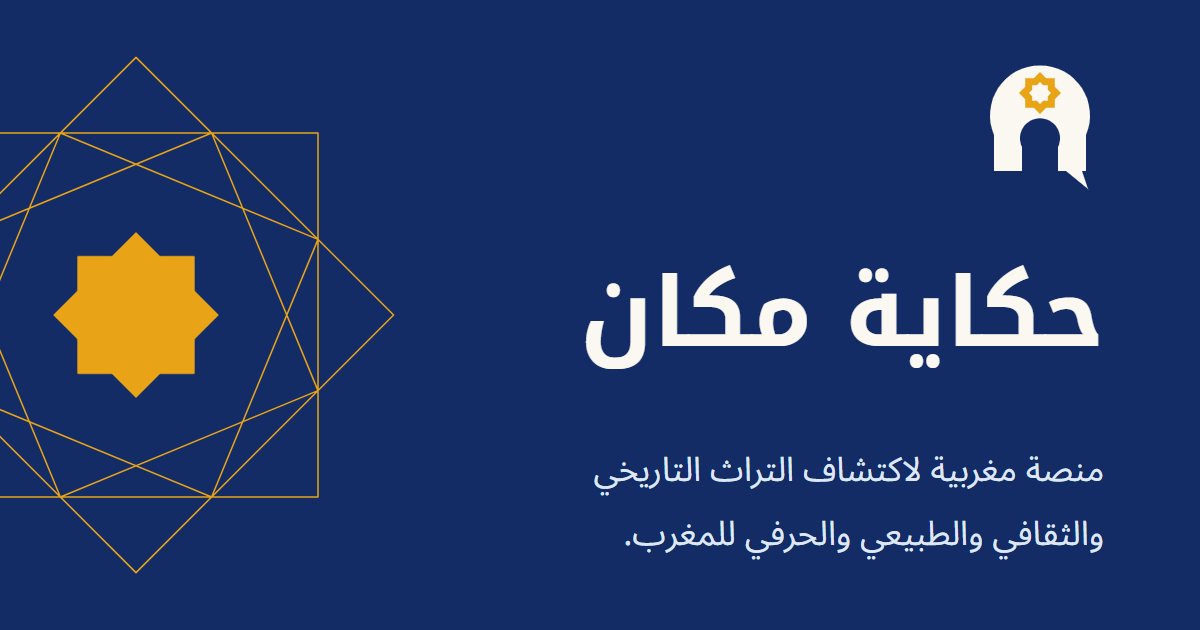
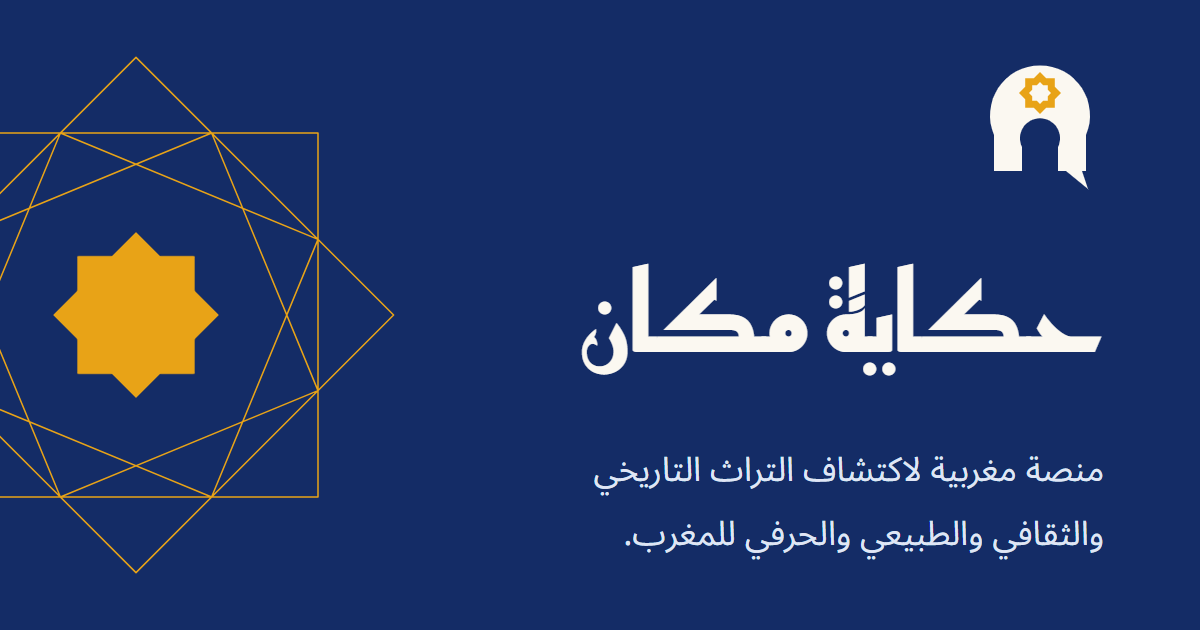
feat: refonte, sections nuit (accueil, récit, pied de page) (#29)
Utilitaire surface-nuit : fond nuit, texte chaux, focus safran par variable CSS.
Bouton variant nuit (texte nuit sur safran). Ciel de l'illustration « porte » en
nuit. LongText hérite sa couleur. Marque en Reem Kufi, image OG régénérée.

Changed region(s): [[0.4625, 0.4222, 0.925, 0.6032]]

diff --git a/src/features/parcours/histoire.tsx b/src/features/parcours/histoire.tsx
@@ -56,38 +56,43 @@ export function ParcoursHistoire({ place }: { place: ParcoursPlace }) {
         </header>
       </SplitLayout>
 
-      {story.scenes.map((scene, index) => (
-        <Scene
-          key={scene.id}
-          testId={`parcours-scene-${scene.id}`}
-          effect={scene.effect}
-          focus={scene.focus}
-          visual={<DemoVisual tone={scene.tone} />}
-        >
-          {/* Progression sans animation : un trait par scène, de droite à gauche, et le texte. */}
-          <p
-            data-testid={`parcours-scene-${scene.id}-progress`}
-            className="flex items-center gap-3 text-sm font-bold text-encre-douce"
+      {/* Récit : section nuit pleine largeur (refonte), en-tête et suite restent sur chaux. */}
+      <div className="surface-nuit">
+        {story.scenes.map((scene, index) => (
+          <Scene
+            key={scene.id}
+            testId={`parcours-scene-${scene.id}`}
+            effect={scene.effect}
+            focus={scene.focus}
+            visual={<DemoVisual tone={scene.tone} />}
           >
-            <span aria-hidden="true" className="flex gap-1">
-              {story.scenes.map((step, stepIndex) => (
-                <span
-                  key={step.id}
-                  className={cn(
-                    "h-1.5 w-6 rounded-full",
-                    stepIndex <= index ? "bg-bleu" : "bg-chaux-sombre",
-                  )}
-                />
-              ))}
-            </span>
-            {t("progress", { current: formatNumber(index + 1), total: formatNumber(total) })}
-          </p>
-          <Heading level={2}>{scene.title}</Heading>
-          <p dir="auto" className="text-lg">
-            {scene.text}
-          </p>
-        </Scene>
-      ))}
+            {/* Progression sans animation : un trait par scène, de droite à gauche, et le texte. */}
+            <p
+              data-testid={`parcours-scene-${scene.id}-progress`}
+              className="flex items-center gap-3 text-sm font-bold text-chaux-douce"
+            >
+              <span aria-hidden="true" className="flex gap-1">
+                {story.scenes.map((step, stepIndex) => (
+                  <span
+                    key={step.id}
+                    className={cn(
+                      "h-1.5 w-6 rounded-full",
+                      stepIndex <= index ? "bg-safran" : "bg-encre-douce",
+                    )}
+                  />
+                ))}
+              </span>
+              {t("progress", { current: formatNumber(index + 1), total: formatNumber(total) })}
+            </p>
+            <Heading level={2} tone="inverse">
+              {scene.title}
+            </Heading>
+            <p dir="auto" className="text-lg">
+              {scene.text}
+            </p>
+          </Scene>
+        ))}
+      </div>
 
       <SplitLayout testId="parcours-histoire-suite">
         <SourceList sources={demoSources} />

diff --git a/src/components/layout/footer.tsx b/src/components/layout/footer.tsx
@@ -12,13 +12,13 @@ export function Footer({ links = [] }: { links?: readonly FooterLink[] }) {
   return (
     <footer
       data-testid="site-footer"
-      className="mt-section bg-bleu-profond py-section text-chaux pb-[max(var(--spacing-section),env(safe-area-inset-bottom))]"
+      className="mt-section surface-nuit py-section pb-[max(var(--spacing-section),env(safe-area-inset-bottom))]"
     >
       <Container className="space-y-4">
         {/* Accent : un trait safran, jamais un fond (le zellige arrive en T5). */}
         <div aria-hidden="true" className="h-1 w-12 rounded-full bg-safran" />
-        <p className="font-titre text-xl font-bold text-white">{t("brand")}</p>
-        <p className="max-w-prose text-sm text-bleu-clair">{meta("description")}</p>
+        <p className="font-affiche text-xl font-bold text-white">{t("brand")}</p>
+        <p className="max-w-prose text-sm text-chaux-douce">{meta("description")}</p>
         {links.length > 0 && (
           <nav aria-label={t("footerNav")} data-testid="nav-footer">
             <ul className="flex flex-wrap gap-x-6">
@@ -27,7 +27,7 @@ export function Footer({ links = [] }: { links?: readonly FooterLink[] }) {
                   <Link
                     href={link.href}
                     data-testid={`nav-footer-${link.id}`}
-                    className="inline-flex min-h-touch items-center text-white underline decoration-1 underline-offset-4 outline-safran"
+                    className="inline-flex min-h-touch items-center text-white underline decoration-1 underline-offset-4"
                   >
                     {link.label}
                   </Link>

diff --git a/src/features/gabarits/histoire.tsx b/src/features/gabarits/histoire.tsx
@@ -41,18 +41,23 @@ export function Histoire() {
         </header>
       </SplitLayout>
 
-      {demoStory.scenes.map((scene) => (
-        <Scene
-          key={scene.id}
-          testId={`gabarit-histoire-scene-${scene.id}`}
-          effect={scene.effect}
-          focus={scene.focus}
-          visual={<DemoVisual tone={scene.tone} />}
-        >
-          <Heading level={2}>{scene.title}</Heading>
-          <LongText paragraphs={scene.paragraphs} />
-        </Scene>
-      ))}
+      {/* Récit : section nuit pleine largeur (refonte), en-tête et suite restent sur chaux. */}
+      <div className="surface-nuit">
+        {demoStory.scenes.map((scene) => (
+          <Scene
+            key={scene.id}
+            testId={`gabarit-histoire-scene-${scene.id}`}
+            effect={scene.effect}
+            focus={scene.focus}
+            visual={<DemoVisual tone={scene.tone} />}
+          >
+            <Heading level={2} tone="inverse">
+              {scene.title}
+            </Heading>
+            <LongText paragraphs={scene.paragraphs} />
+          </Scene>
+        ))}
+      </div>
 
       <SplitLayout testId="gabarit-histoire-suite">
         <SourceList sources={demoSources} />

diff --git a/src/features/gabarits/accueil.tsx b/src/features/gabarits/accueil.tsx
@@ -37,7 +37,7 @@ export function Accueil() {
         data-testid="gabarit-accueil-hero"
         className="flex min-h-[calc(100dvh_-_3.5rem_-_1px_-_env(safe-area-inset-top)_-_var(--spacing-nav)_-_env(safe-area-inset-bottom))] flex-col-reverse md:min-h-[calc(100dvh_-_3.5rem_-_1px_-_env(safe-area-inset-top))] md:flex-row"
       >
-        <div className="flex flex-1 flex-col justify-center gap-6 bg-bleu-profond py-8 text-chaux md:py-section max-md:px-[max(var(--spacing-gutter),env(safe-area-inset-left),env(safe-area-inset-right))] md:basis-1/2 md:px-16">
+        <div className="flex flex-1 flex-col justify-center gap-6 surface-nuit py-8 md:py-section max-md:px-[max(var(--spacing-gutter),env(safe-area-inset-left),env(safe-area-inset-right))] md:basis-1/2 md:px-16">
           <div>
             <Badge tone="safran">{ui("demo")}</Badge>
           </div>
@@ -50,7 +50,7 @@ export function Accueil() {
           <div>
             <ButtonLink
               href={gabaritPaths.histoire}
-              variant="secondary"
+              variant="nuit"
               data-testid="gabarit-accueil-cta"
             >
               {t("cta")}

diff --git a/src/styles/globals.css b/src/styles/globals.css
@@ -186,12 +186,25 @@ body {
   }
 }
 
-/* Focus clavier visible partout (2 px, décalé) ; les composants à focus propre le déplacent sur leur cadre. */
+/*
+ * Focus clavier visible partout (2 px, décalé) ; les composants à focus propre le déplacent sur leur
+ * cadre. `--couleur-focus` : redéfinie par `surface-nuit`.
+ */
 @layer base {
   :focus-visible {
-    outline: 2px solid var(--color-bleu);
+    outline: 2px solid var(--couleur-focus, var(--color-bleu));
     outline-offset: 2px;
   }
+}
+
+/*
+ * Section nuit pleine largeur (refonte, direction A : accueil, récit, pied de page). Pas un mode
+ * sombre : la page reste claire. Texte chaux ; focus safran (le bleu n'y atteint que 1,9:1).
+ */
+@utility surface-nuit {
+  background-color: var(--color-nuit);
+  color: var(--color-chaux);
+  --couleur-focus: var(--color-safran);
 }
 
 /*

diff --git a/src/components/ui/long-text.tsx b/src/components/ui/long-text.tsx
@@ -2,7 +2,8 @@ import { cn } from "@/lib/cn";
 
 /**
  * Texte long en colonne de lecture étroite (≈ 65 caractères). Chaque paragraphe porte
- * `dir="auto"` : un paragraphe latin ou mixte prend sa propre direction.
+ * `dir="auto"` : un paragraphe latin ou mixte prend sa propre direction. Couleur héritée (encre sur
+ * chaux, chaux sur une section nuit).
  */
 export function LongText({
   paragraphs,
@@ -14,7 +15,7 @@ export function LongText({
   "data-testid"?: string;
 }) {
   return (
-    <div className={cn("mx-auto max-w-prose space-y-5 text-base text-encre", className)} {...props}>
+    <div className={cn("mx-auto max-w-prose space-y-5 text-base", className)} {...props}>
       {paragraphs.map((paragraph, index) => (
         <p key={index} dir="auto" className="text-start">
           {paragraph}

diff --git a/src/features/catalogue/illustrations.tsx b/src/features/catalogue/illustrations.tsx
@@ -47,7 +47,7 @@ function Porte() {
   const merlons = [127, 149, 171, 193, 215, 237, 259];
   return (
     <>
-      <rect width={400} height={300} className="fill-bleu-profond" />
+      <rect width={400} height={300} className="fill-nuit" />
       {(
         [
           [60, 40, 3],
@@ -62,7 +62,7 @@ function Porte() {
         <Star key={`${x}-${y}`} x={x} y={y} r={r} className="fill-chaux" />
       ))}
       <circle cx={296} cy={42} r={20} className="fill-safran" />
-      <circle cx={305} cy={35} r={17} className="fill-bleu-profond" />
+      <circle cx={305} cy={35} r={17} className="fill-nuit" />
       <path
         d="M0 300V205H28V180H70V198H96V160H125V300ZM275 300V170H305V195H335V175H372V210H400V300Z"
         className="fill-bleu"

diff --git a/src/features/catalogue/catalogue.tsx b/src/features/catalogue/catalogue.tsx
@@ -86,6 +86,13 @@ export function Catalogue() {
                   {demo("buttonLabel")}
                 </Button>
               </Specimen>
+              <Specimen label={s("night")}>
+                <div className="rounded-md surface-nuit p-4">
+                  <Button variant="nuit" data-testid="catalogue-button-nuit">
+                    {demo("buttonLabel")}
+                  </Button>
+                </div>
+              </Specimen>
               <Specimen label={s("disabled")}>
                 <Button disabled data-testid="catalogue-button-disabled">
                   {demo("buttonLabel")}

diff --git a/src/features/partage/cards.tsx b/src/features/partage/cards.tsx
@@ -22,7 +22,7 @@ export function OgCard() {
       <ZelligeMedallion className="absolute -end-36 top-1/2 size-[560px] -translate-y-1/2 text-safran" />
       <div className="relative flex max-w-[680px] flex-col gap-8 ps-24">
         <BrandMark tone="dark" className="size-32" />
-        <p className="font-titre text-[96px] leading-tight font-bold text-chaux">{t("title")}</p>
+        <p className="font-affiche text-[96px] leading-tight font-bold text-chaux">{t("title")}</p>
         <p className="text-[34px] leading-normal text-bleu-clair">{t("description")}</p>
       </div>
     </div>

diff --git a/src/components/layout/header.tsx b/src/components/layout/header.tsx
@@ -30,7 +30,7 @@ export function Header({ items }: { items: readonly NavItem[] }) {
         <Link
           href="/"
           data-testid="site-header-brand"
-          className="inline-flex min-h-touch items-center gap-2 font-titre text-lg font-bold text-bleu-profond"
+          className="inline-flex min-h-touch items-center gap-2 font-affiche text-lg font-bold text-bleu-profond"
         >
           <BrandMark className="size-8" />
           {t("brand")}

diff --git a/src/components/ui/heading.tsx b/src/components/ui/heading.tsx
@@ -17,7 +17,7 @@ const defaultSize: Record<1 | 2 | 3 | 4, HeadingSize> = { 1: "3xl", 2: "2xl", 3:
 type HeadingProps = Omit<ComponentProps<"h1">, "dir"> & {
   level: 1 | 2 | 3 | 4;
   size?: HeadingSize;
-  /** `inverse` : blanc, pour un fond bleu profond, bleu, émeraude ou ocre (paires vérifiées en AA). */
+  /** `inverse` : blanc, pour un fond nuit, bleu profond, bleu, émeraude ou ocre (paires vérifiées en AA). */
   tone?: "default" | "inverse";
 };
 

diff --git a/src/components/ui/button.tsx b/src/components/ui/button.tsx
@@ -10,6 +10,8 @@ const variants = {
   primary: "bg-bleu text-white hover:bg-bleu-profond",
   secondary: "border border-bleu bg-white text-bleu hover:bg-bleu-clair hover:text-bleu-profond",
   ghost: "text-bleu hover:bg-bleu-clair hover:text-bleu-profond",
+  /** Sur une section nuit : le bleu n'y passe pas, texte nuit sur safran. */
+  nuit: "bg-safran text-nuit hover:bg-safran-clair",
 } as const;
 
 export type ButtonVariant = keyof typeof variants;
